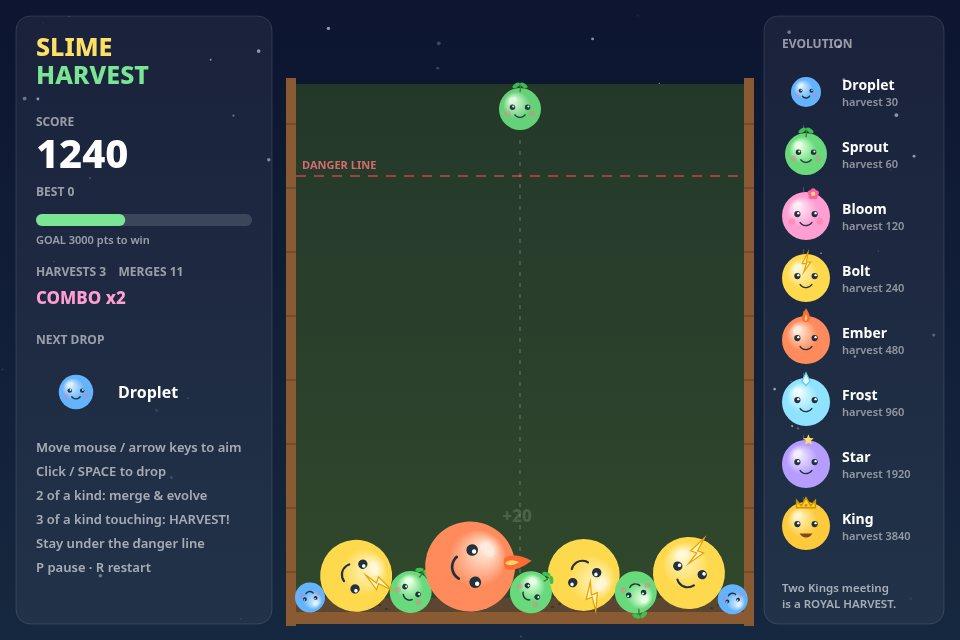
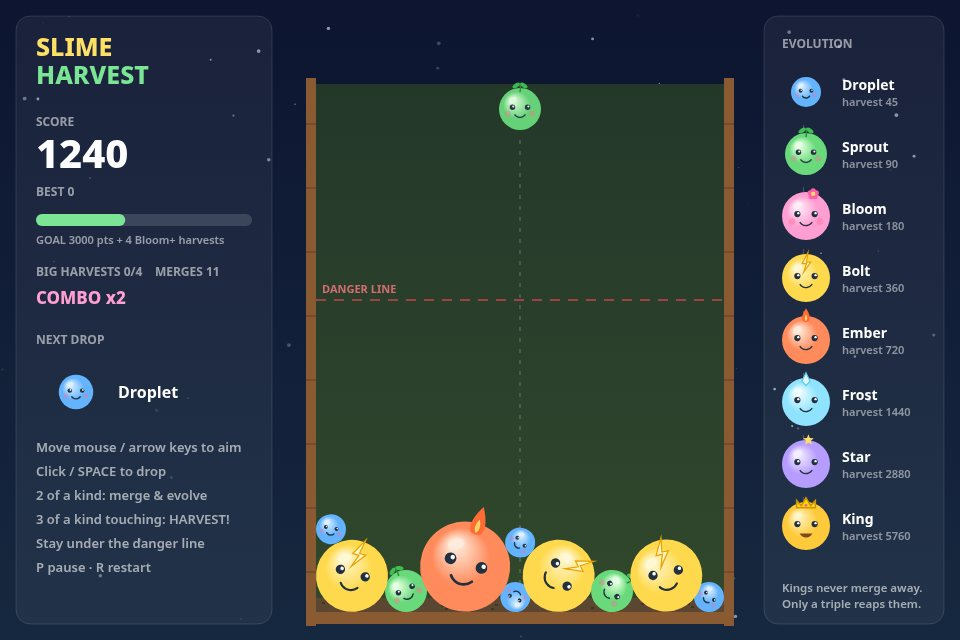
Balance pass: the game has teeth now
Playtesting showed random dropping could coast to a win, so:
- Winning takes 3000 points AND 4 harvests of Bloom or bigger; lucky
  triples of the small fry score and clear space but do not count.
- Kings are terminal: a pair no longer vanishes, so a King is a
  commitment that clogs the box until a triple reaps it.
- Harvests pay far more than merges; high-stage merge points trimmed.
- The box is narrower, the danger line lower, its countdown shorter,
  and the drop tables escalate with score (bigger drops, faster fill).
- Rotation calms down: contact friction spends spin instead of passing
  it around the pile, and a final constraint pass keeps pair separation
  from shoving the bottom of a stack through the floor for a frame.
Verified: scripted playtest passes, a same-spot tower never sinks a
pixel below the floor, and 220 mindless random drops now lose (game
over at drop 163) instead of winning.

diff --git a/game/src/world.js b/game/src/world.js
@@ -5,7 +5,7 @@
 // The harvest rule is the heart of the game: it clears space, so a run can
 // breathe instead of only ever filling up.
 
-import { BOX, DANGER_LIMIT, GRAVITY, MERGE_GRACE, STAGES } from './config.js';
+import { BIG_HARVEST_STAGE, BOX, DANGER_LIMIT, GRAVITY, MERGE_GRACE, STAGES } from './config.js';
 
 let nextId = 1;
 
@@ -19,6 +19,7 @@ export function createWorld() {
     combo: 0,
     comboTimer: 0,
     harvests: 0,
+    bigHarvests: 0,
     merges: 0,
     danger: 0,
     time: 0,
@@ -73,20 +74,25 @@ export function floatText(world, x, y, text, color, size = 22) {
 function stepPhysics(world, h) {
   const slimes = world.slimes;
   for (const s of slimes) {
+    s.touching = false;
     s.vy += GRAVITY * h;
     s.x += s.vx * h;
     s.y += s.vy * h;
+    // Spin fades unless real rolling keeps driving it, so a slime wedged
+    // in the pile settles instead of twirling in its pocket forever.
+    s.angVel *= Math.max(0, 1 - 1.7 * h);
     s.angVel = Math.max(-14, Math.min(14, s.angVel));
     s.angle += s.angVel * h;
     if (s.x - s.r < BOX.left) { s.x = BOX.left + s.r; s.vx = Math.abs(s.vx) * 0.35; }
     if (s.x + s.r > BOX.right) { s.x = BOX.right - s.r; s.vx = -Math.abs(s.vx) * 0.35; }
     if (s.y + s.r > BOX.floor) {
       s.y = BOX.floor - s.r;
+      s.touching = true;
       if (Math.abs(s.vy) > 90) { s.vy = -s.vy * 0.22; s.squash = Math.min(1, Math.abs(s.vy) / 900); }
       else s.vy = 0;
       // Rolling: keep most of the sideways speed and spin to match it, so a
       // slime trundles along the soil instead of stopping dead.
-      s.vx *= 0.995;
+      s.vx *= 0.985;
       const rolling = s.vx / s.r;
       s.angVel += (rolling - s.angVel) * 0.4;
     } else {
@@ -104,6 +110,8 @@ function stepPhysics(world, h) {
       const minDist = a.r + b.r;
       const d2 = dx * dx + dy * dy;
       if (d2 >= minDist * minDist || d2 === 0) continue;
+      a.touching = true;
+      b.touching = true;
       const dist = Math.sqrt(d2);
       const nx = dx / dist;
       const ny = dy / dist;
@@ -124,12 +132,30 @@ function stepPhysics(world, h) {
         a.vy -= impulse * ny * aShare * 2;
         b.vx += impulse * nx * bShare * 2;
         b.vy += impulse * ny * bShare * 2;
-        // A glancing blow sets them spinning. Rolling over a neighbour's
-        // back is where most of the tumbling comes from.
+        // A real glancing blow sets them spinning; resting jitter does not.
         const tangential = rvx * -ny + rvy * nx;
-        a.angVel -= (tangential * 0.06) / Math.max(12, a.r);
-        b.angVel -= (tangential * 0.06) / Math.max(12, b.r);
+        if (Math.abs(tangential) > 40) {
+          a.angVel -= (tangential * 0.015) / Math.max(12, a.r);
+          b.angVel -= (tangential * 0.015) / Math.max(12, b.r);
+        }
       }
+    }
+  }
+  // Contact spends spin: a slime rubbing on a neighbour or the soil stops
+  // twirling quickly, instead of passing its spin around the pile forever.
+  // Rolling survives because the floor keeps re-driving it from vx above.
+  for (const s of slimes) {
+    if (s.touching) s.angVel *= Math.max(0, 1 - 5 * h);
+  }
+  // Final constraint pass: pair separation above can shove the bottom of
+  // a stack through the floor (or a slime out of a wall) after the first
+  // clamp already ran. Re-clamp positions so nothing ever renders sunk.
+  for (const s of slimes) {
+    if (s.x - s.r < BOX.left) s.x = BOX.left + s.r;
+    if (s.x + s.r > BOX.right) s.x = BOX.right - s.r;
+    if (s.y + s.r > BOX.floor) {
+      s.y = BOX.floor - s.r;
+      if (s.vy > 0) s.vy = 0;
     }
   }
 }
@@ -186,6 +212,7 @@ function resolveRules(world) {
       const points = Math.round(STAGES[stage].harvest * cluster.length * world.combo);
       world.score += points;
       world.harvests += 1;
+      if (stage >= BIG_HARVEST_STAGE) world.bigHarvests += 1;
       const cx = cluster.reduce((sum, s) => sum + s.x, 0) / cluster.length;
       const cy = cluster.reduce((sum, s) => sum + s.y, 0) / cluster.length;
       for (const s of cluster) {
@@ -193,7 +220,8 @@ function resolveRules(world) {
         used.add(s.id);
         burst(world, s.x, s.y, STAGES[stage].body, 7, 150);
       }
-      floatText(world, cx, cy - 10, `HARVEST! +${points}`, '#ffe066', 26);
+      const label = stage === STAGES.length - 1 ? 'ROYAL HARVEST!' : 'HARVEST!';
+      floatText(world, cx, cy - 10, `${label} +${points}`, '#ffe066', 26);
       if (world.combo > 1) floatText(world, cx, cy + 20, `COMBO x${world.combo}`, '#ff9ed2', 19);
       world.events.push({ type: stage === STAGES.length - 1 ? 'royal' : 'harvest', x: cx, y: cy });
     }
@@ -202,21 +230,19 @@ function resolveRules(world) {
   // Then pairs: two of a kind merge and evolve (two Kings crown out instead).
   for (const [a, b] of pairs) {
     if (a.dead || b.dead || used.has(a.id) || used.has(b.id)) continue;
+    if (a.stage >= STAGES.length - 1) {
+      // Kings are terminal: a pair of Kings does not vanish. They sit
+      // there, huge and in the way, until a third King completes the
+      // triple and the cluster harvest above reaps all three. Making a
+      // King is a commitment — that clog is the game's endgame pressure.
+      continue;
+    }
     used.add(a.id);
     used.add(b.id);
     a.dead = true;
     b.dead = true;
     const mx = (a.x * a.r + b.x * b.r) / (a.r + b.r);
     const my = (a.y * a.r + b.y * b.r) / (a.r + b.r);
-    if (a.stage >= STAGES.length - 1) {
-      const points = STAGES[a.stage].harvest * 2;
-      world.score += points;
-      burst(world, mx, my, '#ffd700', 34, 260);
-      floatText(world, mx, my - 16, `ROYAL HARVEST! +${points}`, '#ffd700', 27);
-      world.harvests += 1;
-      world.events.push({ type: 'royal', x: mx, y: my });
-      continue;
-    }
     const born = spawnSlime(world, a.stage + 1, mx, my, (a.vx + b.vx) / 2, Math.min(a.vy, b.vy, -60));
     born.age = MERGE_GRACE * 0.6;
     born.squash = 0.7;
@@ -255,13 +281,13 @@ export function stepWorld(world, dt) {
   let overLine = false;
   for (const s of world.slimes) {
     const speed = Math.hypot(s.vx, s.vy);
-    if (s.age > 1 && speed < 60 && s.y - s.r < BOX.dangerY) { overLine = true; break; }
+    if (s.age > 1 && speed < 160 && s.y - s.r < BOX.dangerY) { overLine = true; break; }
   }
   if (overLine) {
     world.danger += dt;
     if (world.danger >= DANGER_LIMIT) world.events.push({ type: 'over' });
   } else {
-    world.danger = Math.max(0, world.danger - dt * 1.6);
+    world.danger = Math.max(0, world.danger - dt * 1.2);
   }
 
   for (const p of world.particles) {

diff --git a/game/src/config.js b/game/src/config.js
@@ -3,31 +3,61 @@
 
 export const VIEW = { width: 960, height: 640 };
 
-// The farm box the slimes fall into, in view coordinates.
-export const BOX = { left: 296, right: 744, top: 84, floor: 612, dangerY: 176 };
+// The farm box the slimes fall into, in view coordinates. Kept narrow on
+// purpose: merging nearly conserves volume, so a wide box takes forever
+// to fill and thoughtless dropping would never lose.
+export const BOX = { left: 316, right: 724, top: 84, floor: 612, dangerY: 300 };
 
 export const GRAVITY = 2300;          // px per second^2
 export const DROP_COOLDOWN = 0.55;    // seconds between drops
 export const MERGE_GRACE = 0.3;       // a fresh slime cannot merge for this long
-export const DANGER_LIMIT = 2.0;      // seconds above the line before game over
-export const TARGET_SCORE = 3000;     // reaching it wins the run
-
-// stage: name, radius, body colour, belly colour, points when it merges away,
-// points when it is harvested (per slime).
+export const DANGER_LIMIT = 1.0;      // seconds above the line before game over
+export const TARGET_SCORE = 3000;     // score needed to win...
+export const WIN_HARVESTS = 4;        // ...and this many BIG harvests
+export const BIG_HARVEST_STAGE = 2;   // "big" = Bloom or larger. Luck
+                                      // triples the small fry all day, so
+                                      // the win only counts harvests the
+                                      // player had to build toward.
+                                      // alone cannot win: the harvest is
+                                      // the game's signature play, so the
+                                      // win asks for it by name.
+// stage: name, radius, body colour, belly colour, points when a merge
+// creates this stage, points when it is harvested (per slime). Harvests
+// pay far more than merges on purpose: setting up a triple is the skill.
 export const STAGES = [
-  { name: 'Droplet', radius: 15, body: '#63b3ff', belly: '#cfe9ff', merge: 10,  harvest: 30 },
-  { name: 'Sprout',  radius: 21, body: '#69d97c', belly: '#dcffd9', merge: 20,  harvest: 60 },
-  { name: 'Bloom',   radius: 28, body: '#ff9ed2', belly: '#ffe3f3', merge: 40,  harvest: 120 },
-  { name: 'Bolt',    radius: 36, body: '#ffd94d', belly: '#fff3bf', merge: 80,  harvest: 240 },
-  { name: 'Ember',   radius: 45, body: '#ff8a5c', belly: '#ffe0cc', merge: 160, harvest: 480 },
-  { name: 'Frost',   radius: 55, body: '#8fe3ff', belly: '#e6fbff', merge: 320, harvest: 960 },
-  { name: 'Star',    radius: 66, body: '#b79cff', belly: '#ece5ff', merge: 640, harvest: 1920 },
-  { name: 'King',    radius: 79, body: '#ffc93c', belly: '#fff0b3', merge: 1280, harvest: 3840 },
+  { name: 'Droplet', radius: 15, body: '#63b3ff', belly: '#cfe9ff', merge: 10,  harvest: 45 },
+  { name: 'Sprout',  radius: 21, body: '#69d97c', belly: '#dcffd9', merge: 20,  harvest: 90 },
+  { name: 'Bloom',   radius: 28, body: '#ff9ed2', belly: '#ffe3f3', merge: 40,  harvest: 180 },
+  { name: 'Bolt',    radius: 36, body: '#ffd94d', belly: '#fff3bf', merge: 80,  harvest: 360 },
+  { name: 'Ember',   radius: 45, body: '#ff8a5c', belly: '#ffe0cc', merge: 120, harvest: 720 },
+  { name: 'Frost',   radius: 55, body: '#8fe3ff', belly: '#e6fbff', merge: 180, harvest: 1440 },
+  { name: 'Star',    radius: 66, body: '#b79cff', belly: '#ece5ff', merge: 300, harvest: 2880 },
+  { name: 'King',    radius: 79, body: '#ffc93c', belly: '#fff0b3', merge: 500, harvest: 5760 },
 ];
 
-// What the dropper can hand you: small slimes only, the big ones are earned.
+// What the dropper can hand you: small slimes only at first, the big ones
+// are earned. As the score climbs the sky answers with bigger slimes, so
+// a run coasting on luck fills its box faster and faster — the challenge
+// grows with the player instead of staying flat.
 export const DROP_TABLE = [
-  { stage: 0, weight: 50 },
-  { stage: 1, weight: 32 },
-  { stage: 2, weight: 18 },
+  { stage: 0, weight: 34 },
+  { stage: 1, weight: 28 },
+  { stage: 2, weight: 22 },
+  { stage: 3, weight: 16 },
 ];
+export const DROP_TABLE_MID = [
+  { stage: 0, weight: 24 },
+  { stage: 1, weight: 26 },
+  { stage: 2, weight: 24 },
+  { stage: 3, weight: 16 },
+  { stage: 4, weight: 10 },
+];
+export const DROP_TABLE_LATE = [
+  { stage: 0, weight: 14 },
+  { stage: 1, weight: 20 },
+  { stage: 2, weight: 24 },
+  { stage: 3, weight: 22 },
+  { stage: 4, weight: 20 },
+];
+export const ESCALATE_MID = 1200;
+export const ESCALATE_LATE = 2200;

diff --git a/game/src/main.js b/game/src/main.js
@@ -1,9 +1,9 @@
 // Slime Harvest — entry point. Owns the run's state machine
 // (title -> play -> win/over), the dropper, sound triggers and the loop.
 
-import { BOX, DROP_COOLDOWN, DROP_TABLE, TARGET_SCORE, VIEW } from './config.js';
+import { BOX, DROP_COOLDOWN, DROP_TABLE, DROP_TABLE_LATE, DROP_TABLE_MID, ESCALATE_LATE, ESCALATE_MID, TARGET_SCORE, VIEW, WIN_HARVESTS } from './config.js';
 import { makeRandom, pickDropStage } from './random.js';
-import { createWorld, dropSlime, stepWorld } from './world.js';
+import { createWorld, dropSlime, floatText, stepWorld } from './world.js';
 import { BUTTONS, drawScene } from './render.js';
 import { attachInput } from './input.js';
 import {
@@ -33,8 +33,17 @@ const g = {
   best: 0,
   paused: false,
   won: false,
+  goalPinged: false,
+  escPinged: 0,
   shotMode: Boolean(shotName),
 };
+
+// The sky escalates with the score: bigger drops, faster fill, real stakes.
+function dropTableFor(score) {
+  if (score >= ESCALATE_LATE) return DROP_TABLE_LATE;
+  if (score >= ESCALATE_MID) return DROP_TABLE_MID;
+  return DROP_TABLE;
+}
 
 try {
   g.best = Number(window.localStorage.getItem('slime-harvest-best') || 0) || 0;
@@ -66,6 +75,8 @@ function startRun() {
   g.nextStage = pickDropStage(random, DROP_TABLE);
   g.cool = 0;
   g.won = false;
+  g.goalPinged = false;
+  g.escPinged = 0;
   g.paused = false;
   g.state = 'play';
   ensureAudio();
@@ -191,12 +202,24 @@ function frame(now) {
     g.cool = Math.max(0, g.cool - dt);
     stepWorld(g.world, dt);
     handleEvents();
-    if (!g.won && g.world.score >= TARGET_SCORE) {
+    if (!g.won && g.world.score >= TARGET_SCORE && g.world.bigHarvests >= WIN_HARVESTS) {
       g.won = true;
       g.state = 'win';
       saveBest();
       playWin();
       announce(`You win with ${g.world.score} points. Continue endlessly or restart.`);
+    }
+    const escLevel = g.world.score >= ESCALATE_LATE ? 2 : g.world.score >= ESCALATE_MID ? 1 : 0;
+    if (escLevel > g.escPinged) {
+      g.escPinged = escLevel;
+      floatText(g.world, (BOX.left + BOX.right) / 2, 300, 'BIGGER DROPS INCOMING!', '#ff9ed2', 23);
+      announce('The drops are getting bigger.');
+    }
+    if (!g.goalPinged && g.world.score >= TARGET_SCORE && g.world.bigHarvests < WIN_HARVESTS) {
+      // Points alone do not finish a run: say what is missing, once.
+      g.goalPinged = true;
+      floatText(g.world, (BOX.left + BOX.right) / 2, 300, `NEED ${WIN_HARVESTS - g.world.bigHarvests} MORE BIG HARVESTS!`, '#ffe066', 24);
+      announce(`Score goal reached. Harvest Bloom or bigger ${WIN_HARVESTS - g.world.bigHarvests} more times to win.`);
     }
   } else if (g.state === 'title' || g.state === 'over') {
     // Let particles and faces keep breathing behind the panels.

diff --git a/game/src/render.js b/game/src/render.js
@@ -1,7 +1,7 @@
 // Everything the player sees. Slimes are drawn entirely in code — body,
 // face and a little stage decoration — so the game ships zero image files.
 
-import { BOX, STAGES, TARGET_SCORE, VIEW } from './config.js';
+import { BOX, STAGES, TARGET_SCORE, VIEW, WIN_HARVESTS } from './config.js';
 
 // Fixed star specks for the night-sky backdrop (precomputed: no flicker).
 const STARS = [];
@@ -308,11 +308,11 @@ function drawHud(ctx, g) {
   }
   ctx.fillStyle = 'rgba(255,255,255,0.55)';
   ctx.font = '600 11px system-ui, sans-serif';
-  ctx.fillText(`GOAL ${TARGET_SCORE} pts to win`, 36, 244);
+  ctx.fillText(`GOAL ${TARGET_SCORE} pts + ${WIN_HARVESTS} Bloom+ harvests`, 36, 244);
 
   ctx.fillStyle = 'rgba(255,255,255,0.55)';
   ctx.font = '700 12px system-ui, sans-serif';
-  ctx.fillText(`HARVESTS ${world.harvests}    MERGES ${world.merges}`, 36, 276);
+  ctx.fillText(`BIG HARVESTS ${world.bigHarvests}/${WIN_HARVESTS}    MERGES ${world.merges}`, 36, 276);
   if (world.combo > 1) {
     ctx.fillStyle = '#ff9ed2';
     ctx.font = '800 17px system-ui, sans-serif';
@@ -364,8 +364,8 @@ function drawGuide(ctx, g) {
   });
   ctx.fillStyle = 'rgba(255,255,255,0.6)';
   ctx.font = '600 11.5px system-ui, sans-serif';
-  ctx.fillText('Two Kings meeting', 782, 592);
-  ctx.fillText('is a ROYAL HARVEST.', 782, 608);
+  ctx.fillText('Kings never merge away.', 782, 592);
+  ctx.fillText('Only a triple reaps them.', 782, 608);
 }
 
 function drawButton(ctx, rect, label, primary) {
@@ -453,7 +453,7 @@ export function drawScene(ctx, g) {
     ctx.font = '600 17px system-ui, sans-serif';
     ctx.fillText('Drop slimes. Two of a kind merge and evolve.', 480, 232);
     ctx.fillText('Three of a kind touching are HARVESTED for big points.', 480, 258);
-    ctx.fillText(`Reach ${TARGET_SCORE} points — but never bury the danger line.`, 480, 284);
+    ctx.fillText(`Reach ${TARGET_SCORE} points and ${WIN_HARVESTS} Bloom-or-bigger harvests.`, 480, 284);
     const row = [0, 1, 2, 3, 4];
     row.forEach((stage, i) => {
       drawSlimeShape(ctx, stage, 330 + i * 76, 356, STAGES[stage].radius, time, { phase: i });

diff --git a/game/src/shots.js b/game/src/shots.js
@@ -51,7 +51,7 @@ export function setupShot(g, name) {
       const ember = spawnSlime(world, 4, x, cy);
       ember.age = 2;
     }
-    world.score = 1200;
+    world.score = 600;
     world.harvests = 3;
     world.merges = 14;
     settle(world, 0.12);

diff --git a/README.md b/README.md
@@ -7,8 +7,9 @@ Drop slimes into the farm box. **Two of a kind** touching merge and evolve
 into the next stage — Droplet, Sprout, Bloom, Bolt, Ember, Frost, Star, and
 finally the King. **Three of a kind** touching are *harvested* instead: they
 vanish in a burst of points and free up precious space. Chain harvests for
-combos, reach **3,000 points** to win, and never let a settled slime sit
-above the danger line for long.
+combos, reach **3,000 points and 4 harvests of Bloom or bigger** to win — merging alone is
+never enough — and never let a settled slime sit above the danger line
+for long.
 
 The twist on the usual merge formula is the harvest rule: a normal merge game
 only ever fills up, but here a well-placed third slime clears the board —
